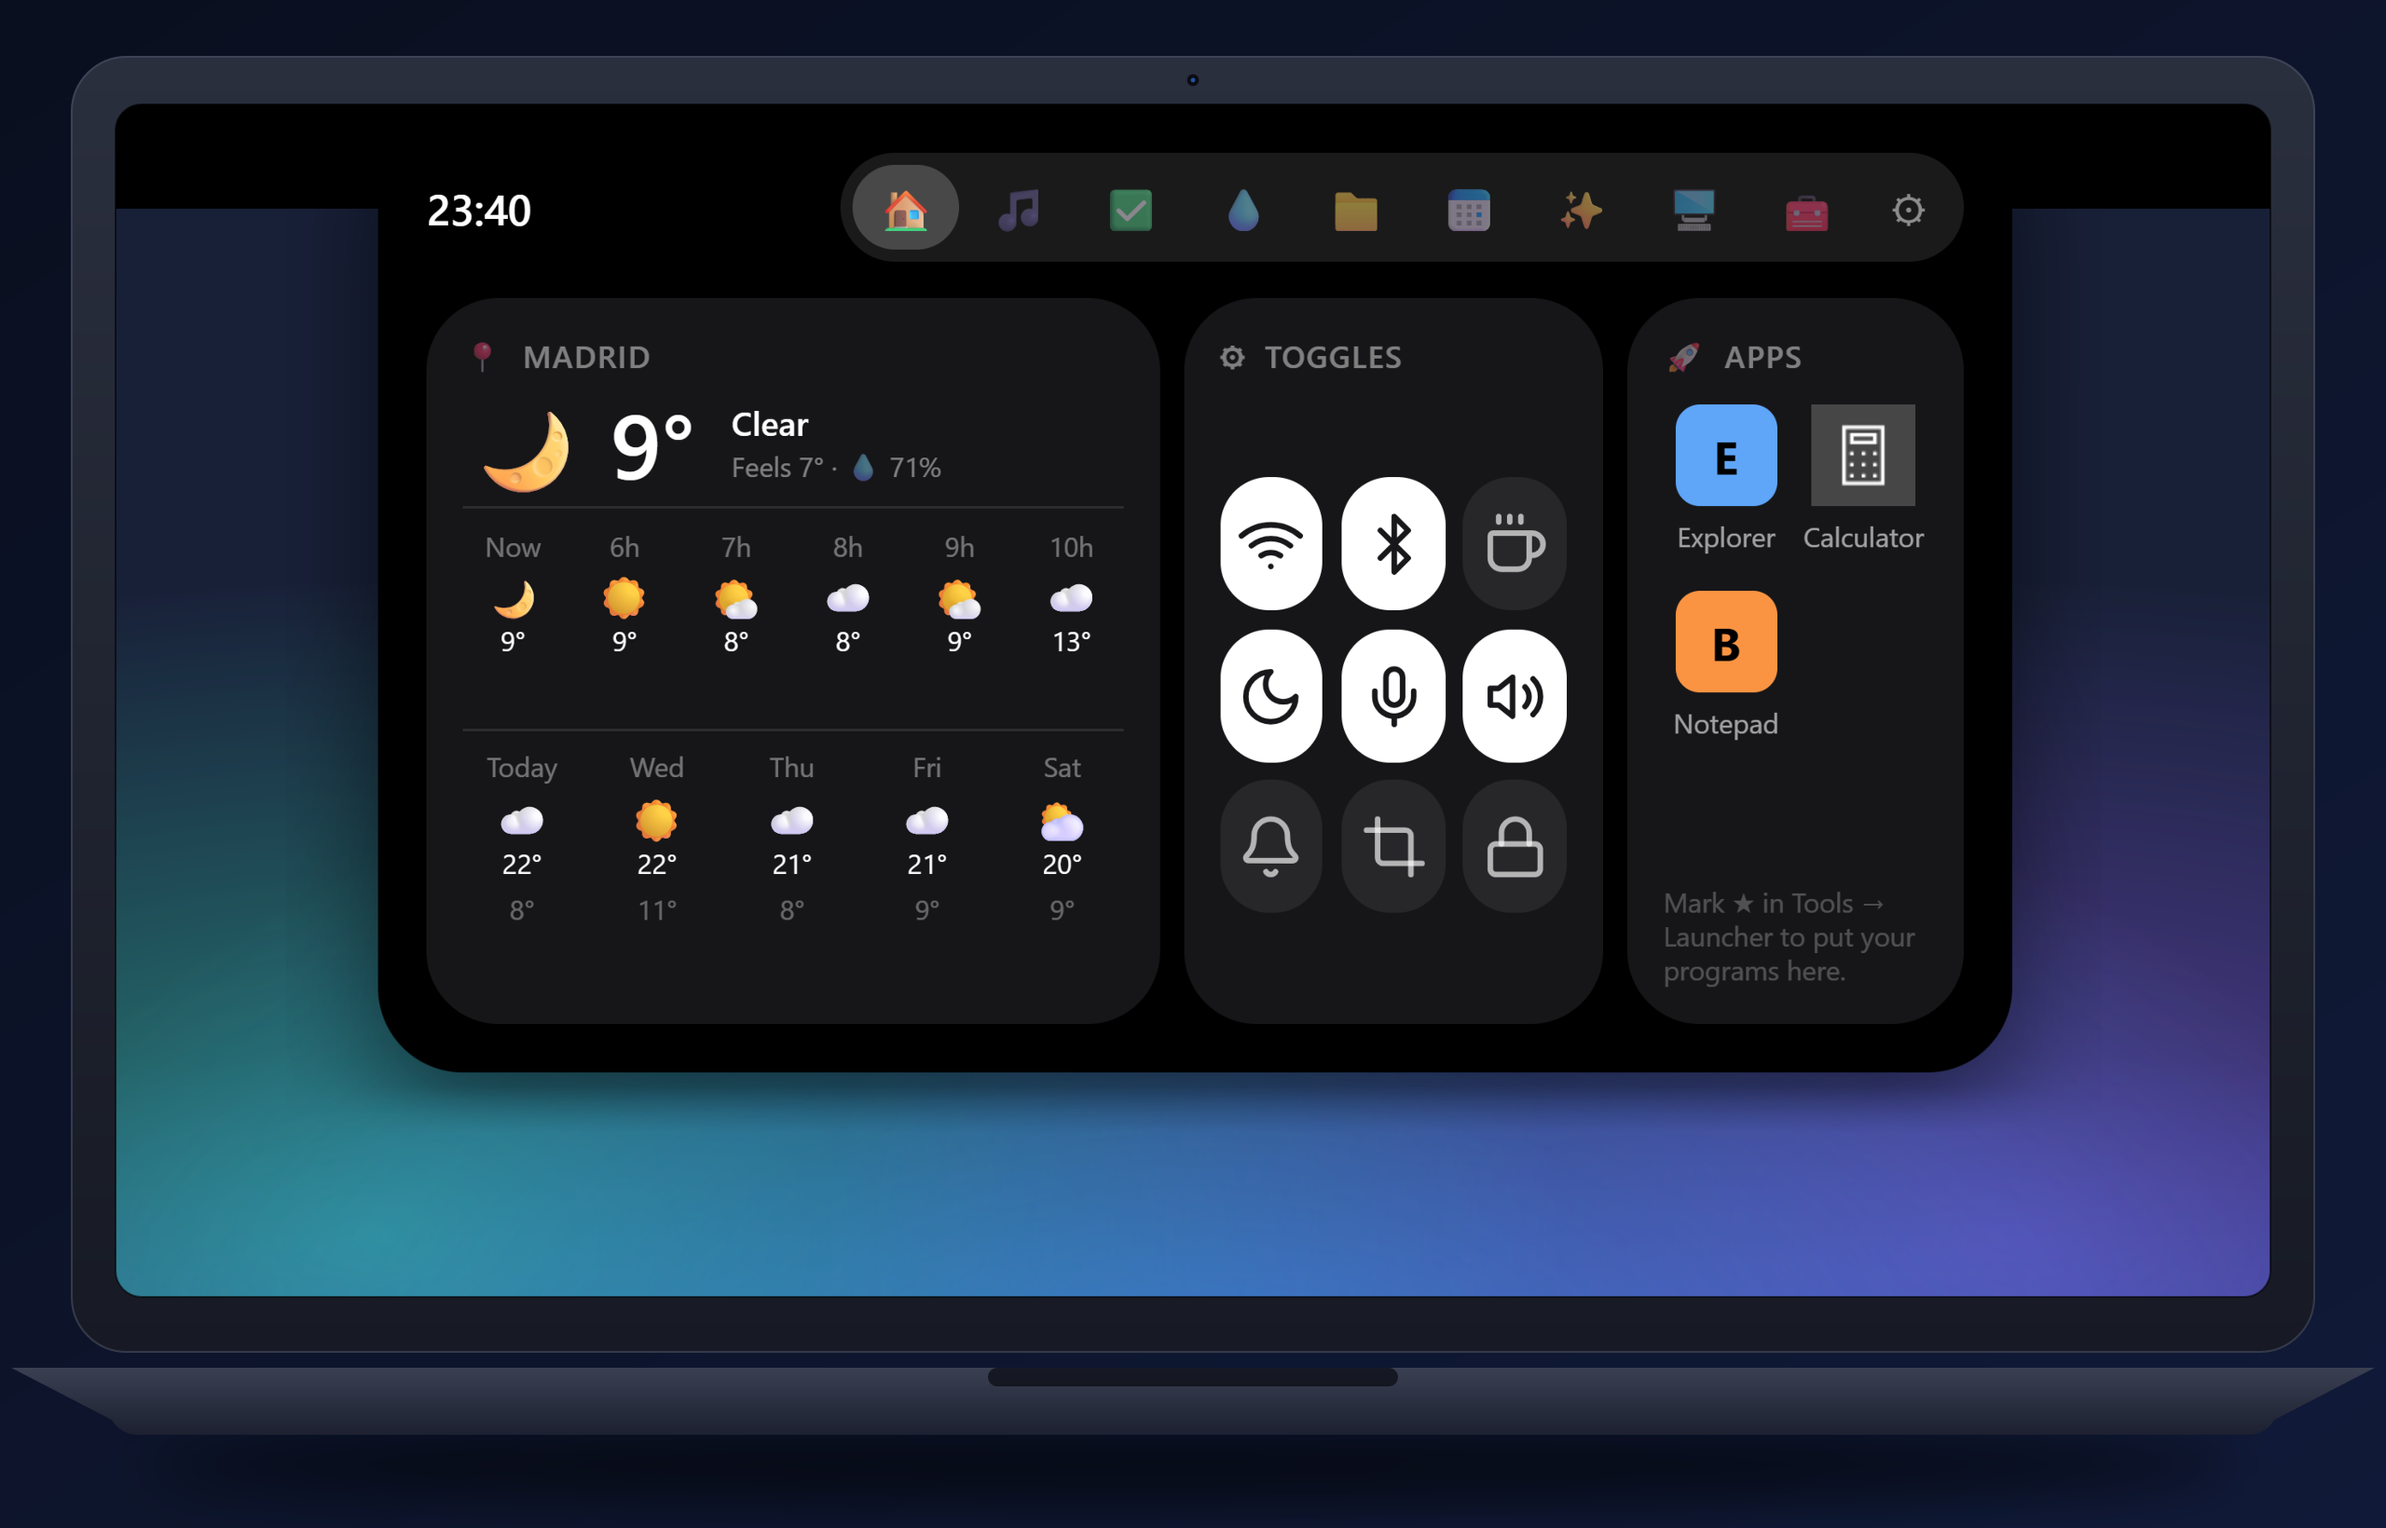
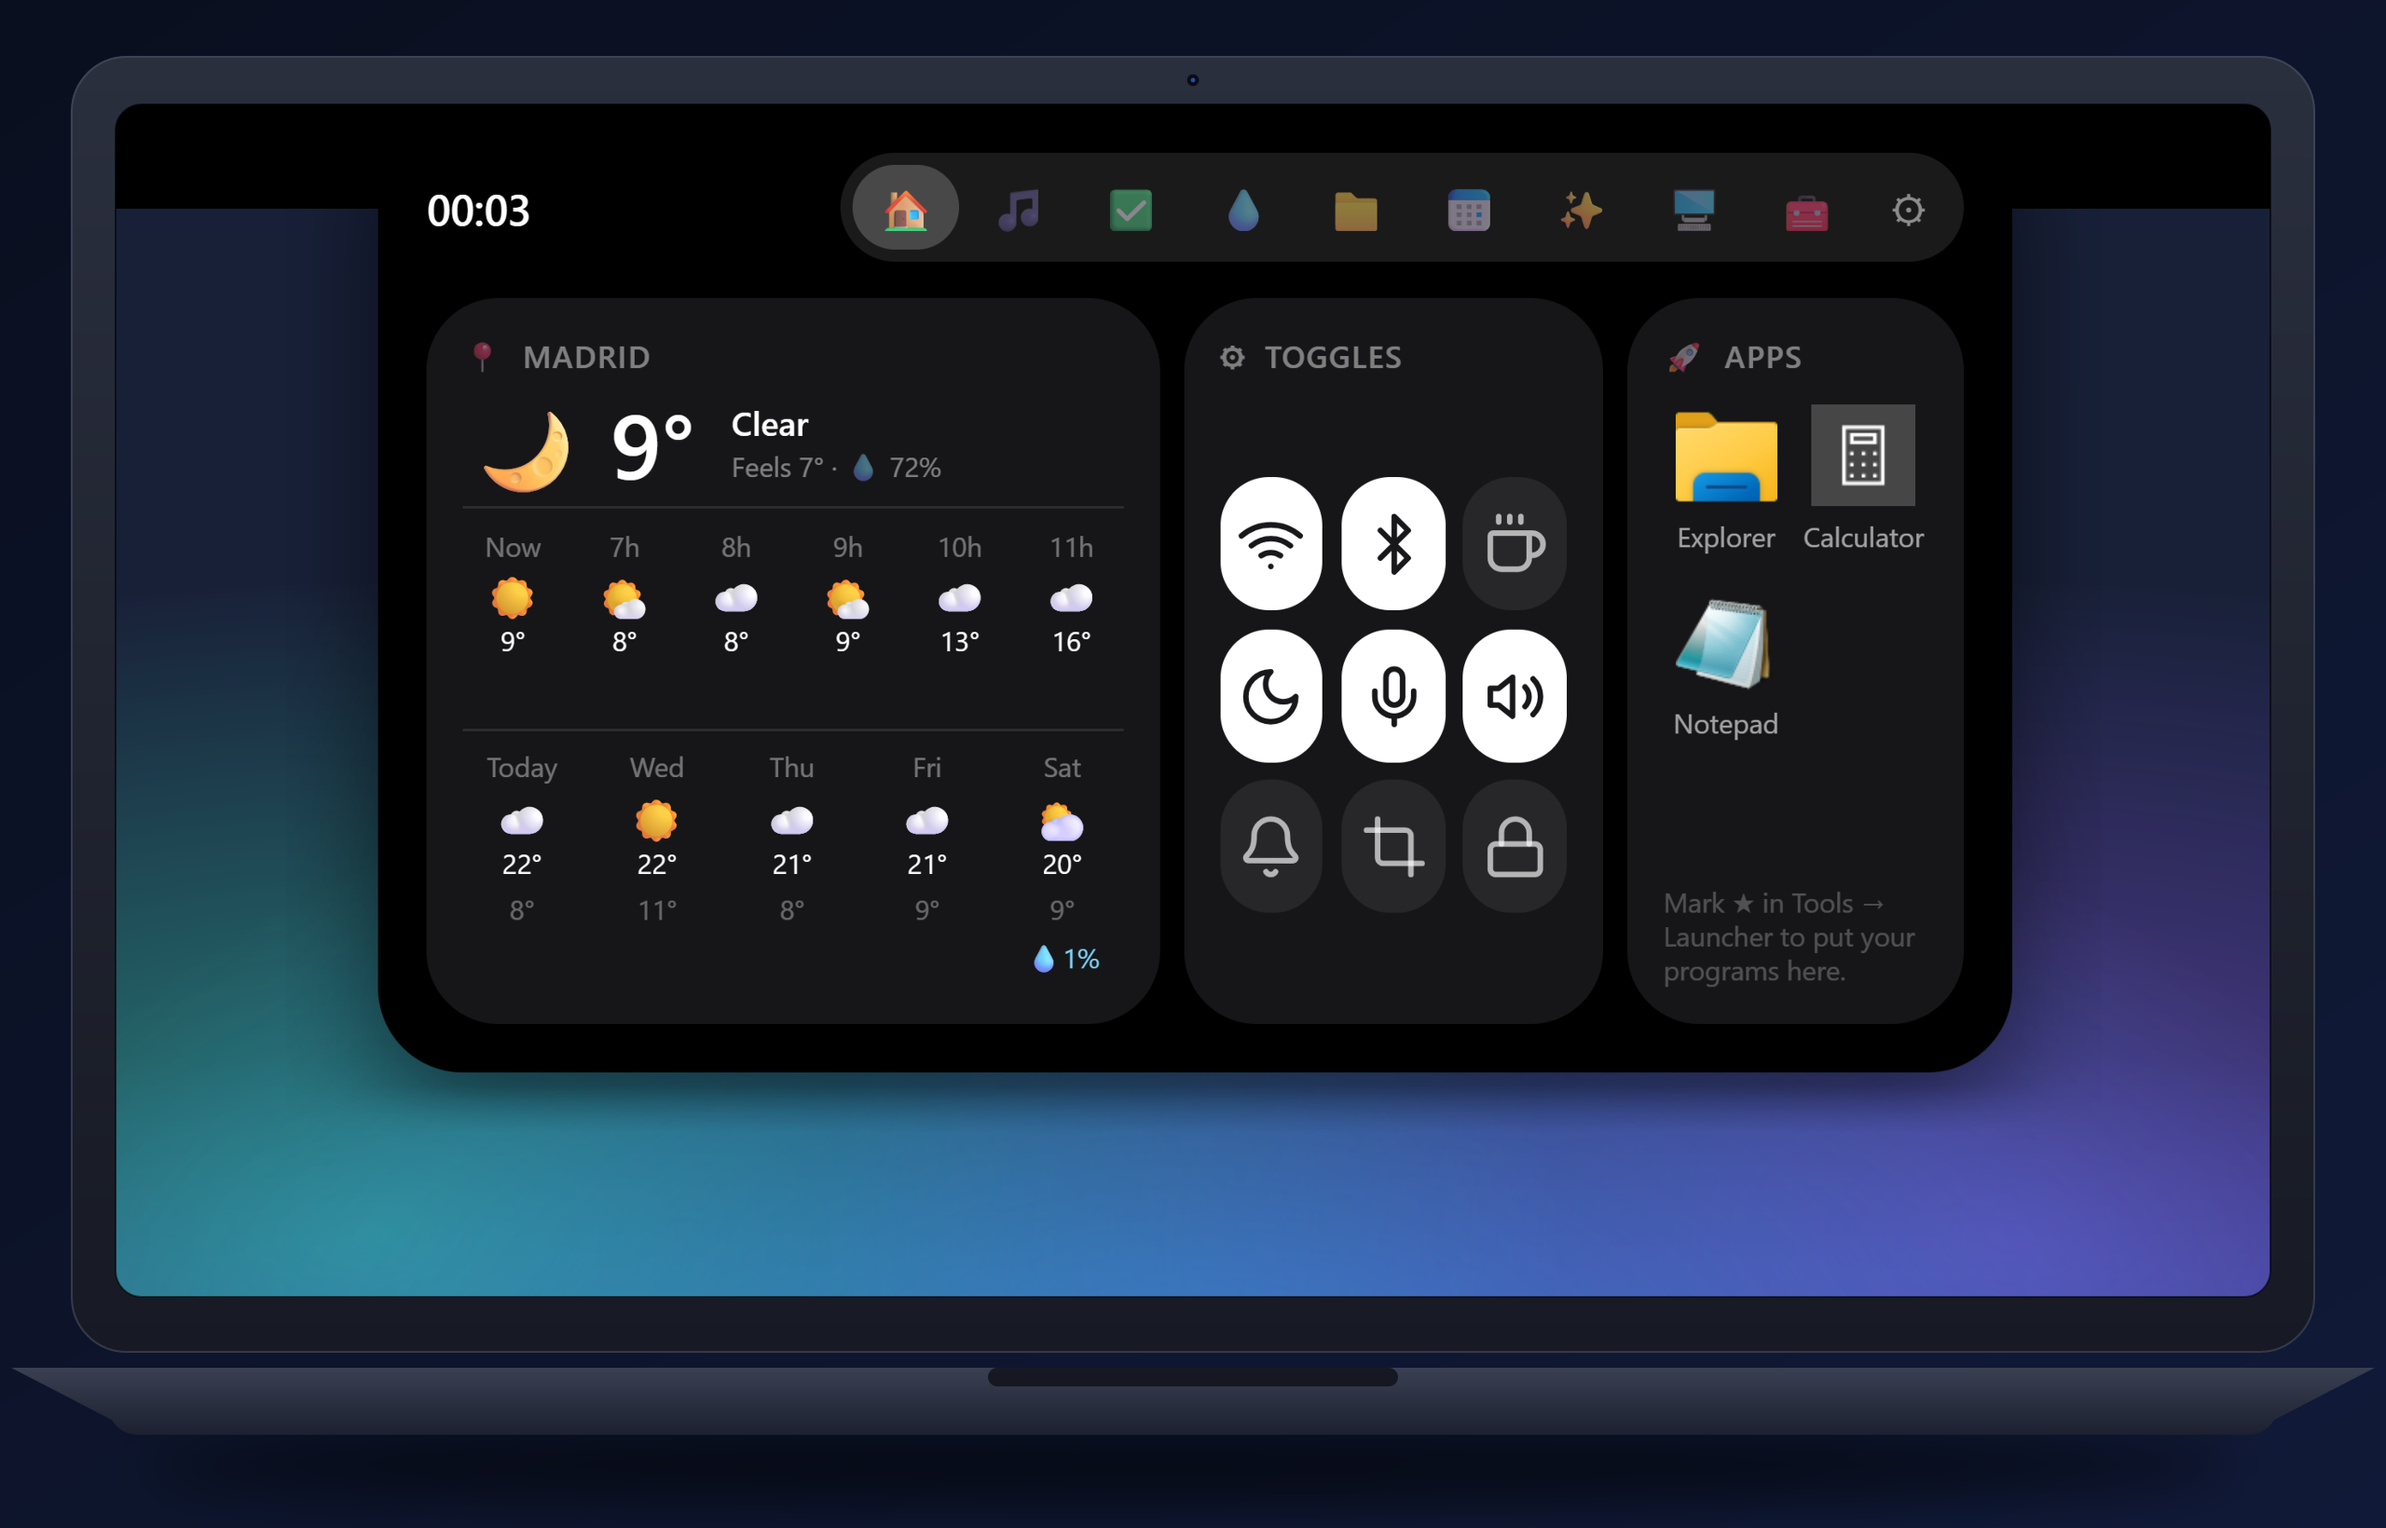
README: más capturas (IA, música, archivos, apariencia) y sección de extras; iconos reales en el Panel

diff --git a/README.md b/README.md
@@ -50,11 +50,16 @@ Es **gratis, de código abierto y funciona por completo en tu PC**: sin cuentas,
 <td align="center"><img src="docs/screenshots/es-habits.png" width="420" alt="Hábitos" /><br /><sub><b>Hábitos</b> · metas, rachas y recordatorios</sub></td>
 </tr>
 <tr>
-<td align="center"><img src="docs/screenshots/es-calendar.png" width="420" alt="Calendario" /><br /><sub><b>Calendario</b> · tus tareas y eventos del mes</sub></td>
-<td align="center"><img src="docs/screenshots/es-system.png" width="420" alt="Sistema" /><br /><sub><b>Sistema</b> · CPU, RAM, discos y red</sub></td>
+<td align="center"><img src="docs/screenshots/es-music.png" width="420" alt="Música" /><br /><sub><b>Música</b> · carátula, progreso y letras</sub></td>
+<td align="center"><img src="docs/screenshots/es-ai.png" width="420" alt="Chat de IA" /><br /><sub><b>Chat de IA</b> · respuestas rápidas con tu propia clave</sub></td>
 </tr>
 <tr>
-<td align="center" colspan="2"><img src="docs/screenshots/es-translator.png" width="420" alt="Traductor" /><br /><sub><b>Traductor</b> · de texto e imágenes, sin clave de API</sub></td>
+<td align="center"><img src="docs/screenshots/es-files.png" width="420" alt="Archivos" /><br /><sub><b>Archivos</b> · suéltalos, arrástralos, comprime y más</sub></td>
+<td align="center"><img src="docs/screenshots/es-calendar.png" width="420" alt="Calendario" /><br /><sub><b>Calendario</b> · tus tareas y eventos del mes</sub></td>
+</tr>
+<tr>
+<td align="center"><img src="docs/screenshots/es-system.png" width="420" alt="Sistema" /><br /><sub><b>Sistema</b> · CPU, RAM, discos y red</sub></td>
+<td align="center"><img src="docs/screenshots/es-translator.png" width="420" alt="Traductor" /><br /><sub><b>Traductor</b> · de texto e imágenes, sin clave de API</sub></td>
 </tr>
 </table>
 
@@ -124,6 +129,25 @@ En **Ajustes → Apariencia** puedes:
 - Rellenar la **franja a los costados** del notch para que parezca una sola pieza (igual que el notch, transparente, un color, una imagen o automática).
 - Decidir **qué se ve cuando está cerrado**: hora, fecha, tareas pendientes, hábitos del día, temperatura, batería y lo que suena.
 - Ajustar tamaños, posición, opacidad y reloj de 12 o 24 horas.
+
+<table>
+<tr>
+<td align="center"><img src="docs/screenshots/es-look-color.png" width="420" alt="Notch de color" /><br /><sub><b>Un color</b> · el notch y la franja a juego</sub></td>
+<td align="center"><img src="docs/screenshots/es-look-image.png" width="420" alt="Notch con imagen" /><br /><sub><b>Una imagen</b> · de fondo en el notch y en la franja</sub></td>
+</tr>
+<tr>
+<td align="center" colspan="2"><img src="docs/screenshots/es-closed.png" width="420" alt="Noki cerrado" /><br /><sub><b>Cerrado</b> · hora, tareas, hábitos, clima, batería y lo que suena</sub></td>
+</tr>
+</table>
+
+## 🔌 Y mucho más
+
+- **Calendarios por enlace.** Añade cualquier calendario que te dé una dirección `.ics` o `webcal://`. En Google Calendar: Configuración → tu calendario → «Integrar calendario» → «Dirección secreta en formato iCal». En Outlook: Configuración → Calendario → Calendarios compartidos → «Publicar un calendario». Son de solo lectura y se actualizan cada 15 minutos.
+- **Copia de seguridad.** En Ajustes → Acerca de puedes **exportar** tus ajustes y datos (tareas, notas, hábitos, chat…) a un archivo y **importarlos** en otro equipo. No incluye las claves de API.
+- **Chat de IA a tu manera.** Elige Gemini, Claude, un servicio compatible con OpenAI u Ollama en tu propio equipo. Las claves se guardan en el Administrador de credenciales de Windows.
+- **Un atajo para todo.** `Alt+N` abre y cierra el notch (puedes cambiarlo en Ajustes → Atajos).
+- **Avisos útiles.** Volumen, brillo, cargador, batería baja, internet, Bloq Mayús y recordatorios de salud, cada uno con su interruptor.
+- **Varias pantallas.** Un notch por monitor, y se oculta solo cuando algo va en pantalla completa.
 
 ## 🔐 Privacidad
 

diff --git a/README.en.md b/README.en.md
@@ -50,11 +50,16 @@ It is **free, open source and runs fully on your PC**: no accounts, no telemetry
 <td align="center"><img src="docs/screenshots/en-habits.png" width="420" alt="Habits" /><br /><sub><b>Habits</b> · goals, streaks and reminders</sub></td>
 </tr>
 <tr>
-<td align="center"><img src="docs/screenshots/en-calendar.png" width="420" alt="Calendar" /><br /><sub><b>Calendar</b> · your tasks and events for the month</sub></td>
-<td align="center"><img src="docs/screenshots/en-system.png" width="420" alt="System" /><br /><sub><b>System</b> · CPU, RAM, disks and network</sub></td>
+<td align="center"><img src="docs/screenshots/en-music.png" width="420" alt="Music" /><br /><sub><b>Music</b> · album art, progress and lyrics</sub></td>
+<td align="center"><img src="docs/screenshots/en-ai.png" width="420" alt="AI chat" /><br /><sub><b>AI chat</b> · quick answers with your own key</sub></td>
 </tr>
 <tr>
-<td align="center" colspan="2"><img src="docs/screenshots/en-translator.png" width="420" alt="Translator" /><br /><sub><b>Translator</b> · text and images, no API key</sub></td>
+<td align="center"><img src="docs/screenshots/en-files.png" width="420" alt="Files" /><br /><sub><b>Files</b> · drop, drag out, compress and more</sub></td>
+<td align="center"><img src="docs/screenshots/en-calendar.png" width="420" alt="Calendar" /><br /><sub><b>Calendar</b> · your tasks and events for the month</sub></td>
+</tr>
+<tr>
+<td align="center"><img src="docs/screenshots/en-system.png" width="420" alt="System" /><br /><sub><b>System</b> · CPU, RAM, disks and network</sub></td>
+<td align="center"><img src="docs/screenshots/en-translator.png" width="420" alt="Translator" /><br /><sub><b>Translator</b> · text and images, no API key</sub></td>
 </tr>
 </table>
 
@@ -124,6 +129,25 @@ In **Settings → Appearance** you can:
 - Fill the **strip beside the notch** so it looks like a single piece (same as the notch, transparent, a color, an image or automatic).
 - Decide **what shows when it's closed**: time, date, pending tasks, today's habits, temperature, battery and what's playing.
 - Adjust sizes, position, opacity and a 12 or 24-hour clock.
+
+<table>
+<tr>
+<td align="center"><img src="docs/screenshots/en-look-color.png" width="420" alt="Colored notch" /><br /><sub><b>A color</b> · the notch and the strip to match</sub></td>
+<td align="center"><img src="docs/screenshots/en-look-image.png" width="420" alt="Notch with an image" /><br /><sub><b>An image</b> · as the background of the notch and the strip</sub></td>
+</tr>
+<tr>
+<td align="center" colspan="2"><img src="docs/screenshots/en-closed.png" width="420" alt="Noki closed" /><br /><sub><b>Closed</b> · time, tasks, habits, weather, battery and what's playing</sub></td>
+</tr>
+</table>
+
+## 🔌 And much more
+
+- **Calendars by link.** Add any calendar that gives you an `.ics` or `webcal://` address. In Google Calendar: Settings → your calendar → “Integrate calendar” → “Secret address in iCal format”. In Outlook: Settings → Calendar → Shared calendars → “Publish a calendar”. They are read-only and refresh every 15 minutes.
+- **Backup.** In Settings → About you can **export** your settings and data (tasks, notes, habits, chat…) to a file and **import** them on another PC. API keys are not included.
+- **AI chat your way.** Pick Gemini, Claude, an OpenAI-compatible service or Ollama on your own machine. Keys are kept in the Windows Credential Manager.
+- **One shortcut for everything.** `Alt+N` opens and closes the notch (you can change it in Settings → Shortcuts).
+- **Useful alerts.** Volume, brightness, charger, low battery, internet, Caps Lock and health reminders, each with its own switch.
+- **Several screens.** One notch per monitor, and it hides by itself when something goes full screen.
 
 ## 🔐 Privacy
 
